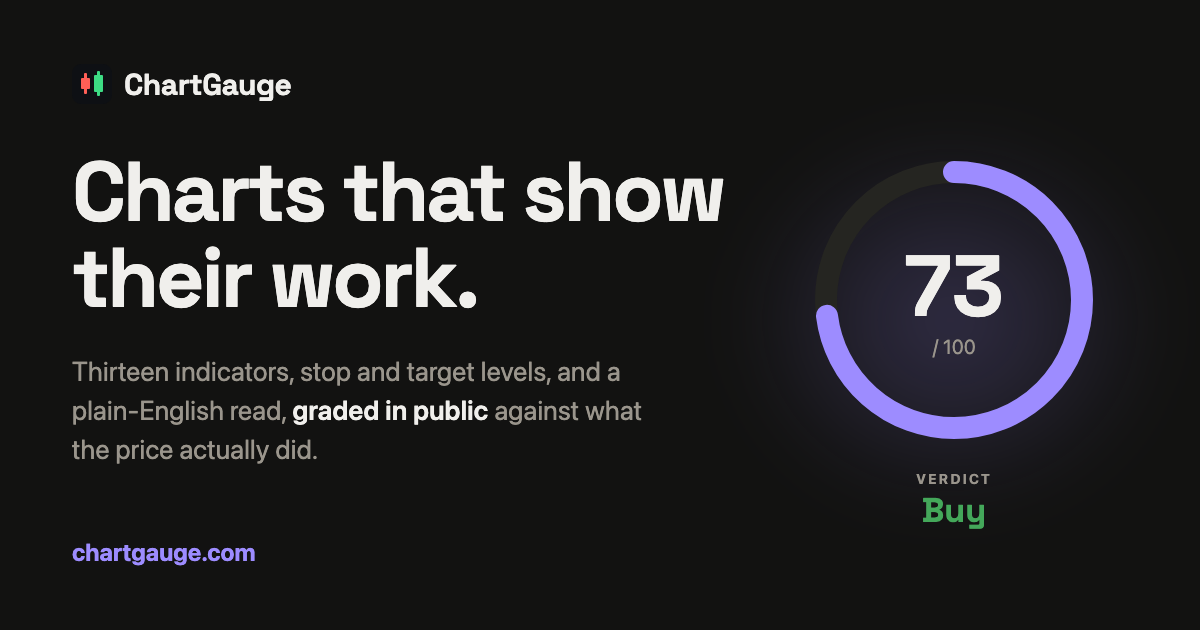
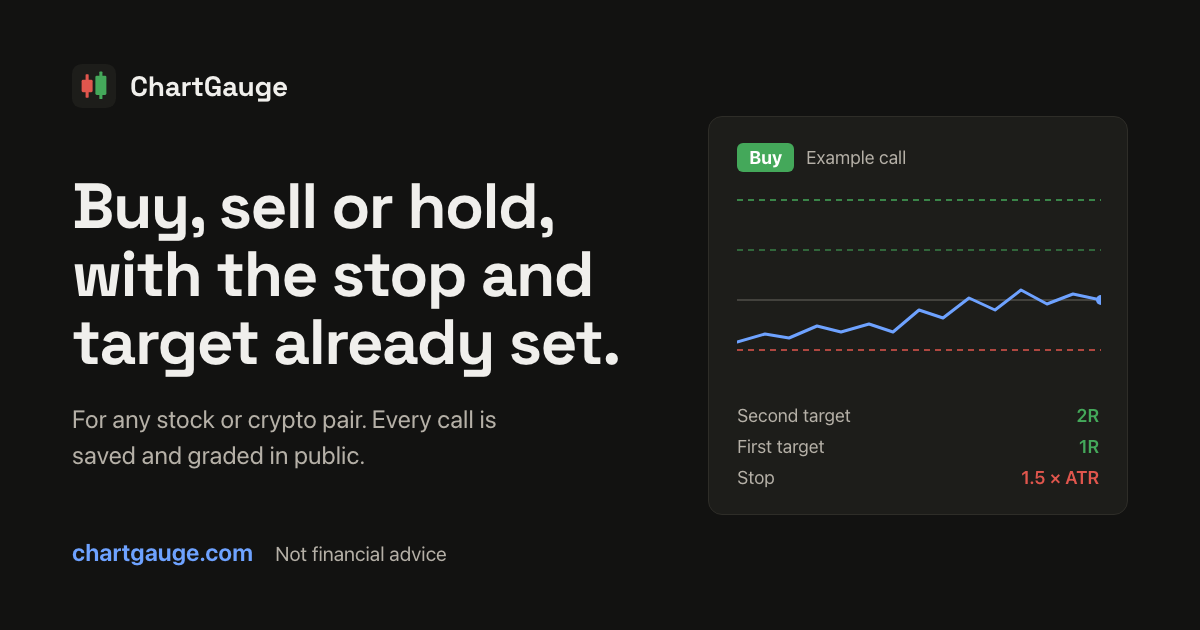
Share image matches the current site: headline, palette, example levels

diff --git a/tools/og-card.html b/tools/og-card.html
@@ -1,104 +1,86 @@
 <!-- Source for public/og.png, the 1200x630 social share card.
 
-     Regenerate after editing:
+     Regenerate after editing (from the repo root):
 
        '/Applications/Google Chrome.app/Contents/MacOS/Google Chrome' \
          --headless --disable-gpu --hide-scrollbars --force-device-scale-factor=1 \
          --window-size=1200,630 --screenshot=public/og.png tools/og-card.html
 
      Then re-scrape the URL in each platform's debugger, or the old image
-     stays cached for days. -->
+     stays cached for days.
+
+     The chart on the right is a drawing, not a real reading: it has no
+     prices on it, only where the stop and targets sit relative to entry. -->
 <!doctype html>
 <html lang="en">
 <head>
 <meta charset="UTF-8" />
 <style>
+  @font-face { font-family: "Space Grotesk"; src: url("../public/fonts/space-grotesk-latin.woff2") format("woff2"); font-weight: 300 700; }
   * { margin: 0; padding: 0; box-sizing: border-box; }
+  /* Same tokens as the site (public/styles.css). */
   :root {
-    --bg: #0e1014; --card: #171b22; --text: #edf0f4; --muted: #8a94a3;
-    --border: #29313d; --border-strong: #3a4353; --accent: #4c9eff;
-    --good: #3ddc84; --bad: #ff5f56;
+    --bg: #121211; --card: #1d1d1a; --text: #f0efec; --muted: #b5b0a7;
+    --border: #2e2d28; --accent: #6ea2ff; --good: #44a85a; --bad: #e0564d;
   }
   html, body { width: 1200px; height: 630px; }
   body {
-    background:
-      radial-gradient(900px 500px at 88% -12%, rgba(76,158,255,.16), transparent 60%),
-      var(--bg);
-    color: var(--text);
+    background: var(--bg); color: var(--text);
     font-family: ui-sans-serif, system-ui, -apple-system, "Segoe UI", Roboto, "Helvetica Neue", sans-serif;
-    display: flex; flex-direction: column; justify-content: space-between;
-    padding: 68px 72px;
+    display: grid; grid-template-columns: 1fr 420px; gap: 56px;
+    padding: 64px 72px;
     -webkit-font-smoothing: antialiased;
   }
-  .brand { display: flex; align-items: center; gap: 15px; }
-  .brand-name { font-size: 28px; font-weight: 700; letter-spacing: -.3px; }
+  .left { display: flex; flex-direction: column; justify-content: space-between; }
+  .brand { display: flex; align-items: center; gap: 14px; font-size: 28px; font-weight: 700; letter-spacing: -.3px; font-family: "Space Grotesk", sans-serif; }
   h1 {
-    font-size: 78px; line-height: 1.02; font-weight: 700; letter-spacing: -2.4px;
-    margin-bottom: 26px; max-width: 16ch;
+    font-family: "Space Grotesk", sans-serif;
+    font-size: 64px; line-height: 1.06; font-weight: 700; letter-spacing: -1.6px;
+    margin-bottom: 24px;
   }
-  .sub { font-size: 27px; line-height: 1.45; color: var(--muted); max-width: 30ch; font-weight: 450; }
-  .sub b { color: var(--text); font-weight: 650; }
-  .foot { display: flex; align-items: center; justify-content: space-between; }
-  .url { font-size: 25px; font-weight: 650; color: var(--accent); }
-  .pills { display: flex; gap: 10px; }
-  .pill {
-    font-size: 18px; font-weight: 600; color: var(--muted);
-    border: 1px solid var(--border-strong); border-radius: 999px; padding: 9px 17px;
-  }
-  /* the score dial, echoing the one on the analyze page */
-  .art { position: absolute; right: 84px; top: 214px; width: 310px; height: 310px; }
-  .art .lbl {
-    position: absolute; inset: 0; display: flex; flex-direction: column;
-    align-items: center; justify-content: center; gap: 4px;
-  }
-  .art .n { font-size: 66px; font-weight: 700; letter-spacing: -1.5px; }
-  .art .t { font-size: 19px; font-weight: 600; color: var(--muted); }
+  .sub { font-size: 25px; line-height: 1.45; color: var(--muted); max-width: 30ch; }
+  .foot { display: flex; align-items: baseline; gap: 22px; font-size: 20px; color: var(--muted); }
+  .url { font-size: 24px; font-weight: 650; color: var(--accent); }
+
+  .card { align-self: center; background: var(--card); border: 1px solid var(--border); border-radius: 14px; padding: 26px 28px; }
+  .call { display: flex; align-items: center; gap: 12px; font-size: 18px; color: var(--muted); margin-bottom: 14px; }
+  .chip { font-size: 18px; font-weight: 700; color: #fff; background: var(--good); border-radius: 6px; padding: 4px 12px; }
+  .lv { display: grid; grid-template-columns: auto 1fr; row-gap: 10px; column-gap: 18px; margin-top: 16px; font-size: 18px; }
+  .lv dt { color: var(--muted); }
+  .lv dd { text-align: right; font-weight: 600; }
+  .g { color: var(--good); } .r { color: var(--bad); }
 </style>
 </head>
 <body>
 
-  <div class="brand">
-    <svg width="46" height="46" viewBox="0 0 512 512" aria-hidden="true">
-      <circle cx="256" cy="256" r="236" fill="none" stroke="#29313d" stroke-width="18"/>
-      <line x1="84" y1="320" x2="428" y2="196" stroke="#4c9eff" stroke-width="26" stroke-linecap="round"/>
-      <g stroke-linecap="round">
-        <line x1="150" y1="212" x2="150" y2="378" stroke="#ff5f56" stroke-width="20"/>
-        <rect x="122" y="242" width="56" height="116" rx="17" fill="#ff5f56"/>
-        <line x1="256" y1="170" x2="256" y2="348" stroke="#3ddc84" stroke-width="20"/>
-        <rect x="228" y="200" width="56" height="124" rx="17" fill="#3ddc84"/>
-        <line x1="362" y1="132" x2="362" y2="318" stroke="#3ddc84" stroke-width="20"/>
-        <rect x="334" y="160" width="56" height="128" rx="17" fill="#3ddc84"/>
-      </g>
-    </svg>
-    <div class="brand-name">ChartGauge</div>
-  </div>
-
-  <div class="art">
-    <svg width="310" height="310" viewBox="0 0 120 120">
-      <circle cx="60" cy="60" r="52" fill="none" stroke="#29313d" stroke-width="11"/>
-      <circle cx="60" cy="60" r="52" fill="none" stroke="#4c9eff" stroke-width="11"
-              stroke-linecap="round" stroke-dasharray="326.7"
-              stroke-dashoffset="150" transform="rotate(-90 60 60)"/>
-    </svg>
-    <div class="lbl"><div class="n">54</div><div class="t">/ 100</div></div>
-  </div>
-
-  <div>
-    <h1>Charts that show their work.</h1>
-    <p class="sub">
-      Thirteen indicators, read in plain English &mdash; and a
-      <b>public record of how often the reading was right</b>,
-      including when it did worse than doing nothing.
-    </p>
-  </div>
-
-  <div class="foot">
-    <div class="url">chartgauge.com</div>
-    <div class="pills">
-      <div class="pill">Stocks &amp; crypto</div>
-      <div class="pill">19 lessons</div>
-      <div class="pill">Not financial advice</div>
+  <div class="left">
+    <div class="brand">
+      <svg width="44" height="44" viewBox="0 0 64 64" aria-hidden="true"><rect width="64" height="64" rx="14" fill="#1d1d1a"/><rect x="19.75" y="15" width="4.5" height="34" rx="1" fill="#e0564d"/><rect x="14" y="23" width="16" height="18" rx="2" fill="#e0564d"/><rect x="39.75" y="11" width="4.5" height="40" rx="1" fill="#44a85a"/><rect x="34" y="17" width="16" height="28" rx="2" fill="#44a85a"/></svg>
+      ChartGauge
     </div>
+    <div>
+      <h1>Buy, sell or hold, with the stop and target already set.</h1>
+      <p class="sub">For any stock or crypto pair. Every call is saved and graded in public.</p>
+    </div>
+    <div class="foot"><span class="url">chartgauge.com</span><span>Not financial advice</span></div>
+  </div>
+
+  <div class="card">
+    <div class="call"><span class="chip">Buy</span> Example call</div>
+    <svg width="364" height="200" viewBox="0 0 364 200" aria-hidden="true">
+      <line x1="0" y1="14" x2="364" y2="14" stroke="#44a85a" stroke-width="1.5" stroke-dasharray="6 5"/>
+      <line x1="0" y1="64" x2="364" y2="64" stroke="#44a85a" stroke-width="1.5" stroke-dasharray="6 5" opacity=".7"/>
+      <line x1="0" y1="114" x2="364" y2="114" stroke="#b5b0a7" stroke-width="1" opacity=".5"/>
+      <line x1="0" y1="164" x2="364" y2="164" stroke="#e0564d" stroke-width="1.5" stroke-dasharray="6 5"/>
+      <polyline fill="none" stroke="#6ea2ff" stroke-width="3" stroke-linejoin="round" stroke-linecap="round"
+        points="0,156 28,148 52,152 80,140 104,146 132,138 156,146 182,124 206,132 232,112 258,124 284,104 310,118 336,108 364,114"/>
+      <circle cx="364" cy="114" r="5" fill="#6ea2ff"/>
+    </svg>
+    <dl class="lv">
+      <dt>Second target</dt><dd class="g">2R</dd>
+      <dt>First target</dt><dd class="g">1R</dd>
+      <dt>Stop</dt><dd class="r">1.5 × ATR</dd>
+    </dl>
   </div>
 
 </body>
